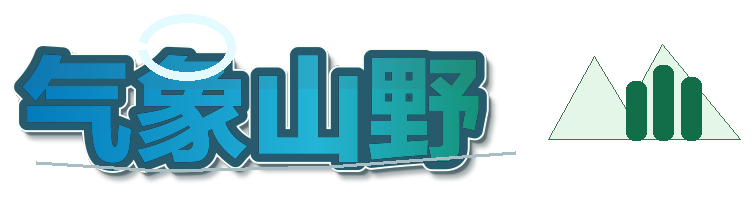
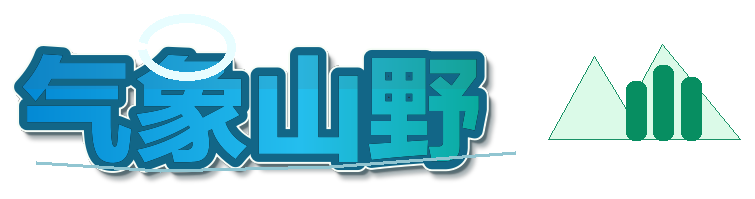
Brighten outdoor wordmark palette

Changed region(s): [[0.0, 0.2412, 0.6702, 0.8744], [0.7311, 0.3015, 0.9748, 0.7236]]

diff --git a/scripts/render-brand-logos.py b/scripts/render-brand-logos.py
@@ -41,7 +41,7 @@ def draw_brand_text(img, text, font, xy, stops, stroke=8):
     # White bevel outline.
     d = ImageDraw.Draw(img)
     d.text(xy, text, font=font, fill=(247, 253, 247, 255), stroke_width=stroke + 2, stroke_fill=(247, 253, 247, 255))
-    d.text(xy, text, font=font, fill=(40, 90, 110, 255), stroke_width=stroke, stroke_fill=(40, 90, 110, 255))
+    d.text(xy, text, font=font, fill=(18, 102, 135, 255), stroke_width=stroke, stroke_fill=(18, 102, 135, 255))
     m = mask_text(size, text, font, xy, 0)
     img.alpha_composite(Image.composite(make_gradient(size, stops), Image.new('RGBA', size), m))
     # Top gloss clipped into glyphs.
@@ -63,18 +63,18 @@ def weather_logo():
     font = ImageFont.truetype(LANTING, 116, index=FONT_INDEX_HEAVY_SC)
     img = Image.new('RGBA', (880, 210), (0,0,0,0))
     draw_brand_text(img, '气象山野', font, (18, 36), [
-        (0, (0, 118, 188, 255)),
-        (0.36, (35, 180, 214, 255)),
-        (0.62, (16, 134, 83, 255)),
-        (1, (135, 121, 54, 255)),
+        (0, (0, 132, 210, 255)),
+        (0.34, (36, 190, 238, 255)),
+        (0.62, (0, 164, 128, 255)),
+        (1, (80, 178, 72, 255)),
     ], stroke=8)
     d = ImageDraw.Draw(img)
     # Integrated mountain mark, similar to the reference, but smaller and cleaner.
-    d.polygon([(548,145),(594,62),(626,115),(662,50),(740,145)], fill=(226,246,232,245), outline=(64,114,79,255))
+    d.polygon([(548,145),(594,62),(626,115),(662,50),(740,145)], fill=(218,250,232,248), outline=(24,145,102,255))
     for x,h in [(626,58),(653,74),(681,62)]:
-        d.rounded_rectangle((x,145-h,x+20,146), radius=8, fill=(8,105,65,245))
-    d.arc((138,20,235,86), 190, 535, fill=(224,250,255,230), width=9)
-    d.line([(36,168),(160,176),(330,172),(515,158)], fill=(10,72,86,90), width=4)
+        d.rounded_rectangle((x,145-h,x+20,146), radius=8, fill=(0,139,93,248))
+    d.arc((138,20,235,86), 190, 535, fill=(232,253,255,245), width=9)
+    d.line([(36,168),(160,176),(330,172),(515,158)], fill=(0,122,150,110), width=4)
     crop(img, 14).save(OUT/'weather-wordmark.png')
 
 
@@ -82,22 +82,22 @@ def route_logo():
     font = ImageFont.truetype(LANTING, 116, index=FONT_INDEX_HEAVY_SC)
     img = Image.new('RGBA', (970, 210), (0,0,0,0))
     draw_brand_text(img, '路线决策台', font, (16, 36), [
-        (0, (0, 105, 170, 255)),
-        (0.28, (28, 153, 206, 255)),
-        (0.45, (225, 142, 25, 255)),
-        (0.64, (0, 104, 160, 255)),
-        (1, (94, 111, 120, 255)),
+        (0, (0, 96, 210, 255)),
+        (0.30, (0, 166, 232, 255)),
+        (0.48, (255, 166, 28, 255)),
+        (0.68, (0, 132, 205, 255)),
+        (1, (40, 106, 150, 255)),
     ], stroke=8)
     d = ImageDraw.Draw(img)
     # Compass plus route graph, like the provided image but with less clutter.
     ox, oy = 704, 31
-    d.line([(ox+32, oy), (ox+4, oy+66)], fill=(0,104,160,235), width=6)
-    d.line([(ox+32, oy), (ox+61, oy+66)], fill=(0,104,160,235), width=6)
-    d.line([(ox+32, oy), (ox+32, oy+88)], fill=(225,142,25,250), width=7)
+    d.line([(ox+32, oy), (ox+4, oy+66)], fill=(0,118,220,240), width=6)
+    d.line([(ox+32, oy), (ox+61, oy+66)], fill=(0,118,220,240), width=6)
+    d.line([(ox+32, oy), (ox+32, oy+88)], fill=(255,166,28,255), width=7)
     pts = [(670,160),(724,140),(780,170),(842,138),(915,164)]
-    d.line(pts, fill=(41,61,68,235), width=5)
+    d.line(pts, fill=(36,84,122,238), width=5)
     for x,y in pts:
-        d.ellipse((x-8,y-8,x+8,y+8), fill=(225,142,25,255), outline=(255,248,232,255), width=3)
+        d.ellipse((x-8,y-8,x+8,y+8), fill=(255,166,28,255), outline=(255,248,232,255), width=3)
     crop(img, 14).save(OUT/'route-wordmark.png')
 
 if __name__ == '__main__':